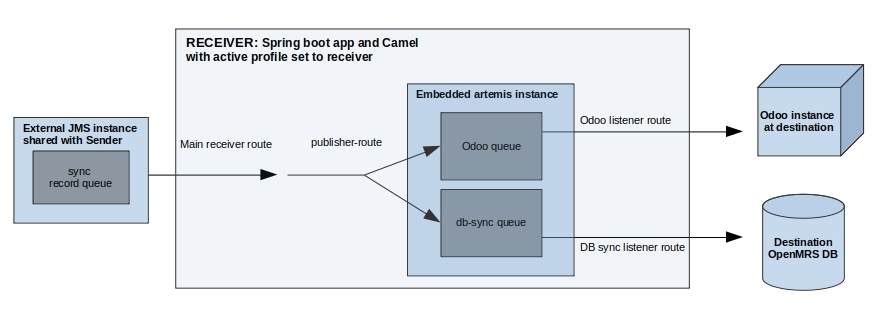
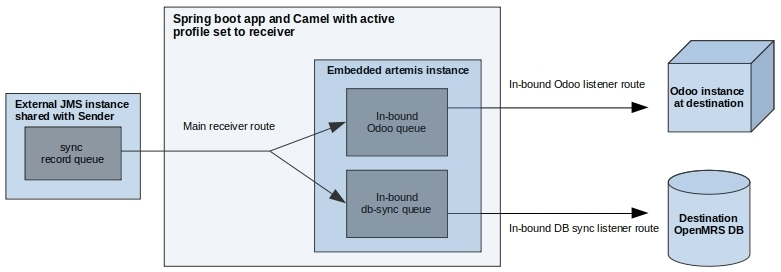
Updated readme, removed publisher route in sender and updated images

Changed region(s): [[0.0, 0.0588, 1.0, 1.0], [0.2151, 0.9706, 0.6453, 1.0], [0.2151, 0.0, 0.6453, 0.0294]]

diff --git a/README.md b/README.md
@@ -14,21 +14,69 @@ Each released minor version of OpenMRS will lead to a maintenance branch.
 For example if you intend to synchronise data between an OpenMRS instance running on Core 2.4.x and another OpenMRS instance running on Core 2.3.x, you will use the appropriate build of the OpenMRS Camel component on each end.
 
 # Sample Configuration for Testing
-The application is designed to run in 2 modes i.e. the sender and receiver as show in the diagrams below.
-
-#### Sender
-
-  ![Sender Diagram](sample/resources/sender.jpg)
-    
-#### Receiver
-
-  ![Receiver Diagram](sample/resources/receiver.jpg) 
+The application is designed to run in one of 2 modes i.e. sender or receiver, you decide one of these via spring's JVM 
+property **spring.profiles.active** with the value set to sender or receiver. The 2 OpenMRS installations that we need 
+to sync between each has its own local Odoo system to integrate with, Odoo is an ERP system. 
 
 A sender and a receiver directory are created to simulate a network between a remote database and a central database. They are both located in the **sample/sample_springboot_setup** directory.
 Please refer to the [Sample configuration README.md](./sample/sample_springboot_setup/README.md) for details about its configuration.
 
 The OpenMRS dbSync can be used with any Camel endpoint between the sender and the receiver including ActiveMQ via `jms` queues. A sample configuration can be found in the **/sample/sample_activemq_setup** directory.
 Please refer to the [Configure ActiveMQ README.md](./sample/sample_activemq_setup/README.md) for details about its configuration.
+
+It's very important to note that technically this is DB to DB sync happening outside of the OpenMRS application, this has implications e.g if you sync something like patient, the search index needs to be triggered for a rebuild,
+the current dbsync route internally triggers this rebuild for all known indexed entities.
+
+### Sender
+
+  ![Sender Diagram](sample/resources/sender.jpg)
+
+As seen from the diagram above, the sender is really a spring boot application at the core running with the active 
+profile set to sender, it uses Apache camel to route messages to specific targets and uses [debezium](https://debezium.io) 
+to track DB changes in source OpenMRS database by reading the mysql binary log which MUST be enabled with the format set 
+to row, please referto inline documentation of the various configuration properties in the sender application.properties 
+in the sample/sample_springboot_setup/sender folder.
+
+Note that the default application that is bundled with the project comes with dockerized MySQL databases where the
+MySQL binlog is preconfigured ONLY for remote instance because it assumes a one-way sink from remote to central.
+
+When the application is fired up in sender mode, the debezium route starts the debezium component which will periodically 
+read entries in the mysql binlog of the remote OpenMRS MySQL DB, it constructs a SyncRecord instance which has 3 fields,
+the source table name, the uuid of the affected entity and the operation(c, u, d) for Create, Update or Delete respectively.
+The debezium route calls the publisher route with the body set to the SyncRecord instance, the publisher route pushes the
+sync record into an embedded active artemis(activeMQ) instance to all configured message queues, by default the application 
+has 2 out-bound queues, one for the out-bound DB sync route and the other for the local Odoo system. In theory, you can 
+register as many queues as the systems that need to be notified of changes in the OpenMRS DB, the sender's application.properties 
+file has a property named **sync-record.destinations** which takes a comma separated list of queue names to which the 
+sync record will be published, and you would have to add a consumer for each registered queue to feed another system. 
+The out-bound DB sync listener route consumes message from its queue, loads the entity by its uuid, serialize it into a 
+custom format and then publishes the payload into a sync record message queue in another external message broker that is 
+known to the team administering OpenMRS instance's MySQL DB that we need to sync to. The out-bound Odoo listener route 
+consumes message from its queue too, does its custom processing and then feeds the configured Odoo system.
+    
+### Receiver
+
+  ![Receiver Diagram](sample/resources/receiver.jpg) 
+
+As seen from the diagram above, the receiver is exactly the same spring boot application with Apache camel but instead 
+running with the active profile set to receiver at another physical location with an OpenMRS installaton.
+
+Recall from the sender documentation above, that the DB sync listener route ends by publishing the payload of the entity 
+to be synced into a message broker known to the team administering the OpenMRS instance's DB we need to sync to, this 
+where the receiver starts, its main receiver route connects to this message broker MOST likely over the internet and 
+consumes messages out of sync record queue and pushes the payload into the embedded active artemis(activeMQ) instance to 
+all configured message queues, by default the application has 2 in-bound queues, one for the in-bound DB sync route and 
+the other for a local Odoo system. In theory, you can register as many queues as the systems that need to be notified of 
+the in-bound entity payload, the sender's application.properties file has a property named **entity-payload.destinations** 
+which takes a comma separated list of queue names to which the entity payload will be published, and you would have to 
+add a consumer for each registered queue to feed another system. The in-bound DB sync listener route consumes message 
+from its queue and syncs it into the destination OpenMRS instance's MySQL DB. The in-bound Odoo listener route consumes 
+message from its queue too, does its custom processing and then feeds the configured Odoo system.
+
+**NOTE:** In this default setup since it's a one-way sync, MySQL bin-log isn't turned on for the destination MySQL DB, 
+if you need to do 2 way sync, you can turn it on for the destination DB too, but you must be wondering if syncing an 
+entity won't get us into an infinite sync loop, this is taken care of by disabling mysql bin logging for the session on 
+the connection objects used when running in receiver mode.
 
 # File synchronization
 It is also possible to synchronize the content of a directory. The directory sync is performed via a different Camel route, but files will be transferred through the same Camel endpoint as the entities.
